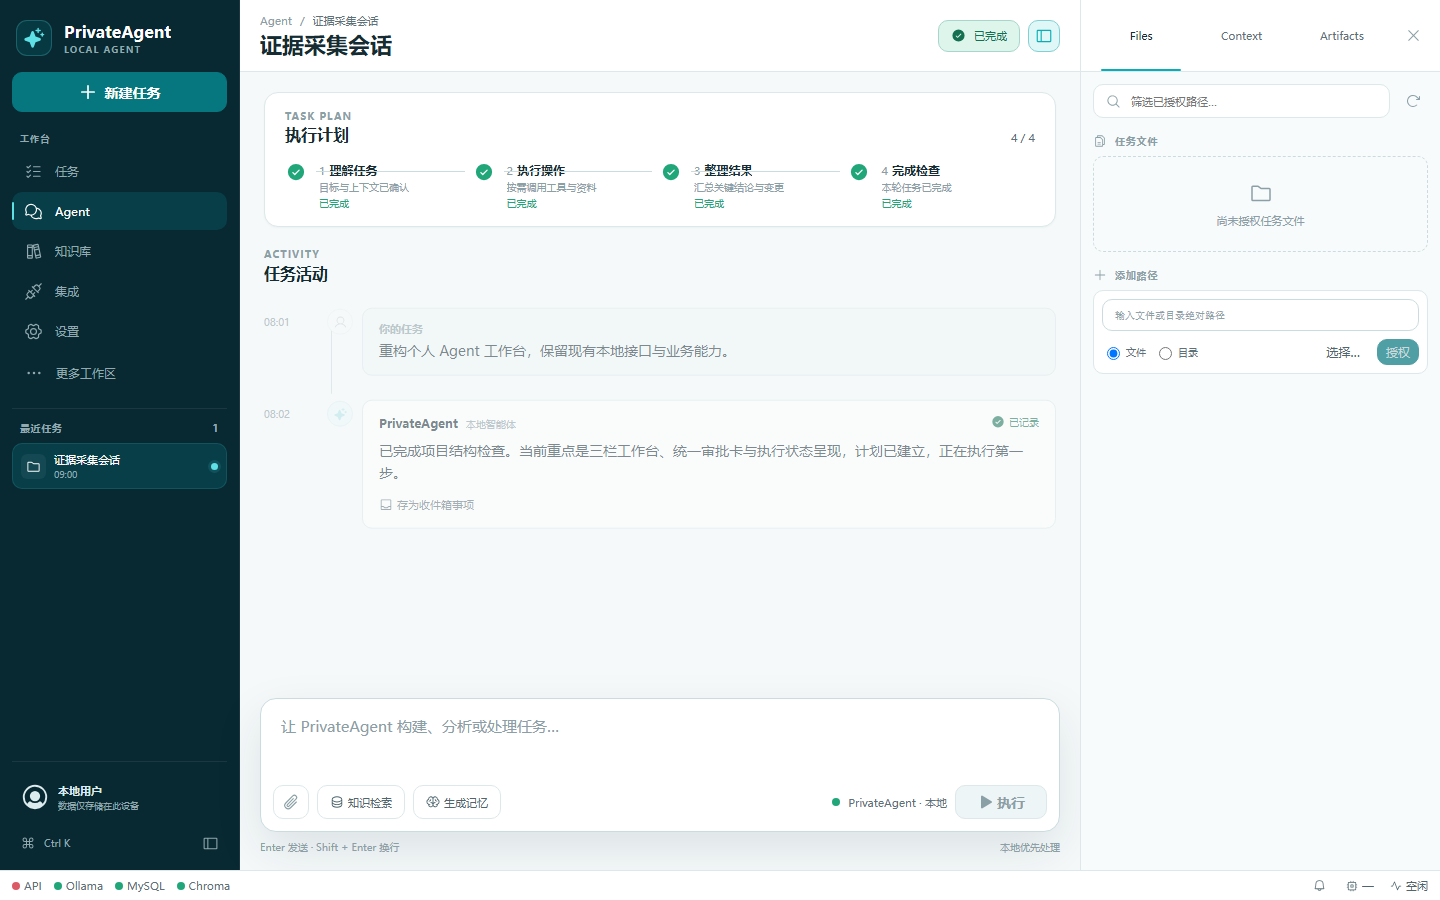
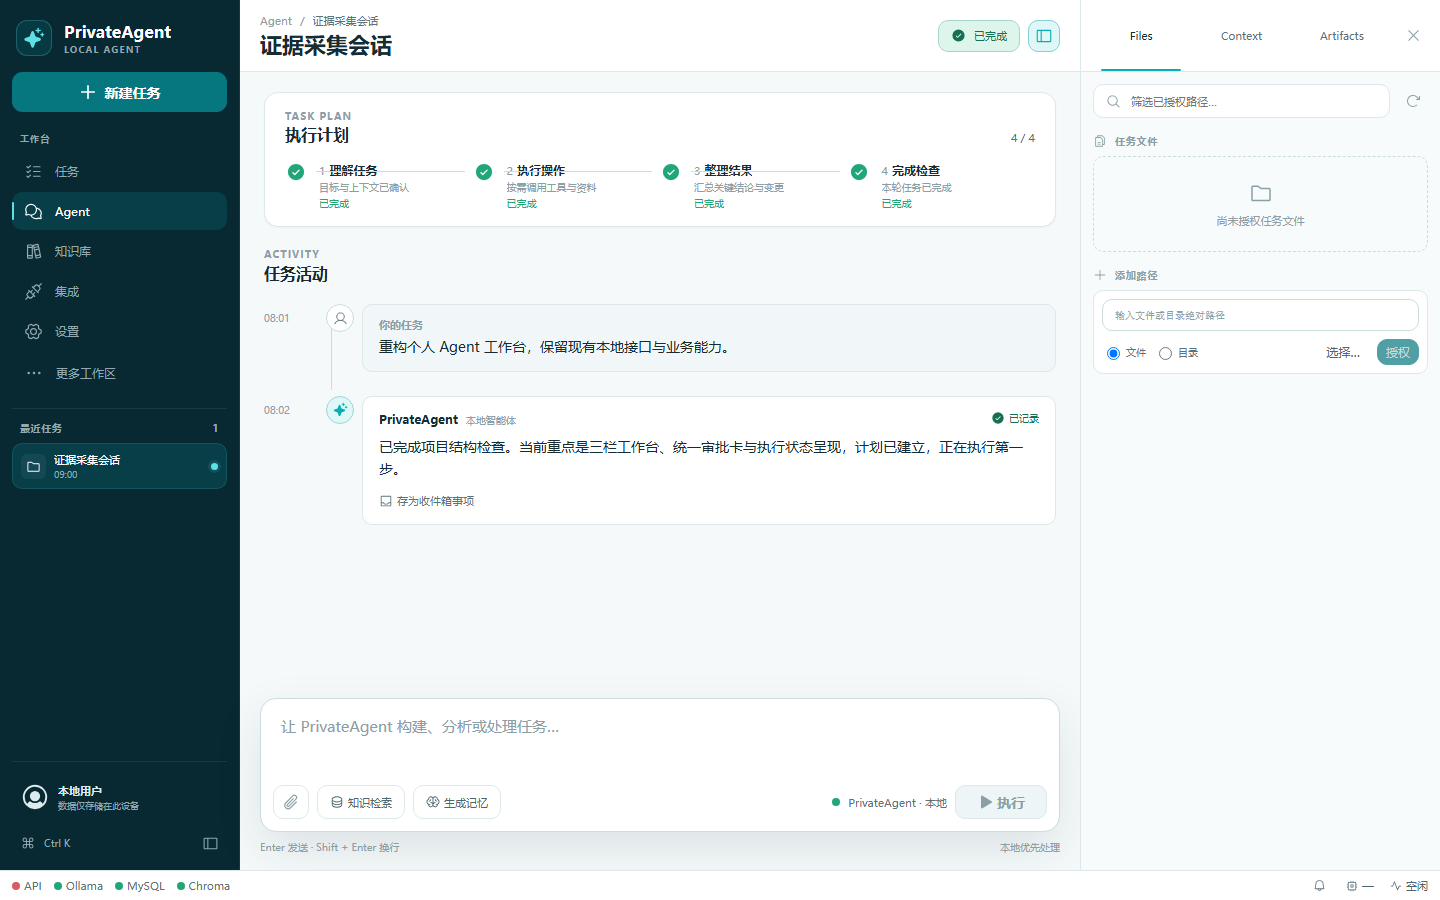
fix(qa): 证据截图固定浏览器时钟，保证可复跑字节稳定

diff --git a/apps/desktop/e2e/evidence.spec.ts b/apps/desktop/e2e/evidence.spec.ts
@@ -18,6 +18,14 @@ const GREEN_HEALTH = {
   chroma: { ok: true },
 };
 
+/** 固定浏览器时钟，保证证据截图字节稳定（相对时间/状态栏不随运行时刻漂移）。 */
+const FIXED_NOW = new Date("2026-08-08T10:00:00.000Z");
+
+async function freezeClock(page: Page) {
+  await page.clock.install({ time: FIXED_NOW });
+  await page.clock.setFixedTime(FIXED_NOW);
+}
+
 function mockApi(page: Page, title = "证据采集会话") {
   return page.route("**://127.0.0.1:8000/**", async (route) => {
     const request = route.request();
@@ -86,6 +94,7 @@ function mockApi(page: Page, title = "证据采集会话") {
 
 async function openV2(page: Page, width: number, height = 900) {
   await page.setViewportSize({ width, height });
+  await freezeClock(page);
   await mockApi(page);
   await page.goto("/?ui=v2");
   await expect(page.getByTestId("nav-chat")).toBeVisible();
@@ -106,6 +115,7 @@ test.describe("0.4.0 视觉证据", () => {
 
   test("新壳今日视图 1440", async ({ page }) => {
     await page.setViewportSize({ width: 1440, height: 900 });
+    await freezeClock(page);
     await mockApi(page);
     await page.goto("/?ui=v2");
     await page.getByTestId("nav-today").click();
@@ -115,6 +125,7 @@ test.describe("0.4.0 视觉证据", () => {
 
   test("UI Lab 1440", async ({ page }) => {
     await page.setViewportSize({ width: 1440, height: 900 });
+    await freezeClock(page);
     await page.goto("/?ui-lab=1");
     await expect(page.getByText("设计系统 2.0 · UI 状态展厅")).toBeVisible();
     await page.screenshot({ path: `${EVIDENCE_DIR}/ui-lab-1440.png`, fullPage: true });
@@ -122,6 +133,7 @@ test.describe("0.4.0 视觉证据", () => {
 
   test("ui=v1 回退壳 1440", async ({ page }) => {
     await page.setViewportSize({ width: 1440, height: 900 });
+    await freezeClock(page);
     await mockApi(page);
     await page.goto("/?ui=v1");
     await expect(page.getByTestId("nav-chat")).toBeVisible();
